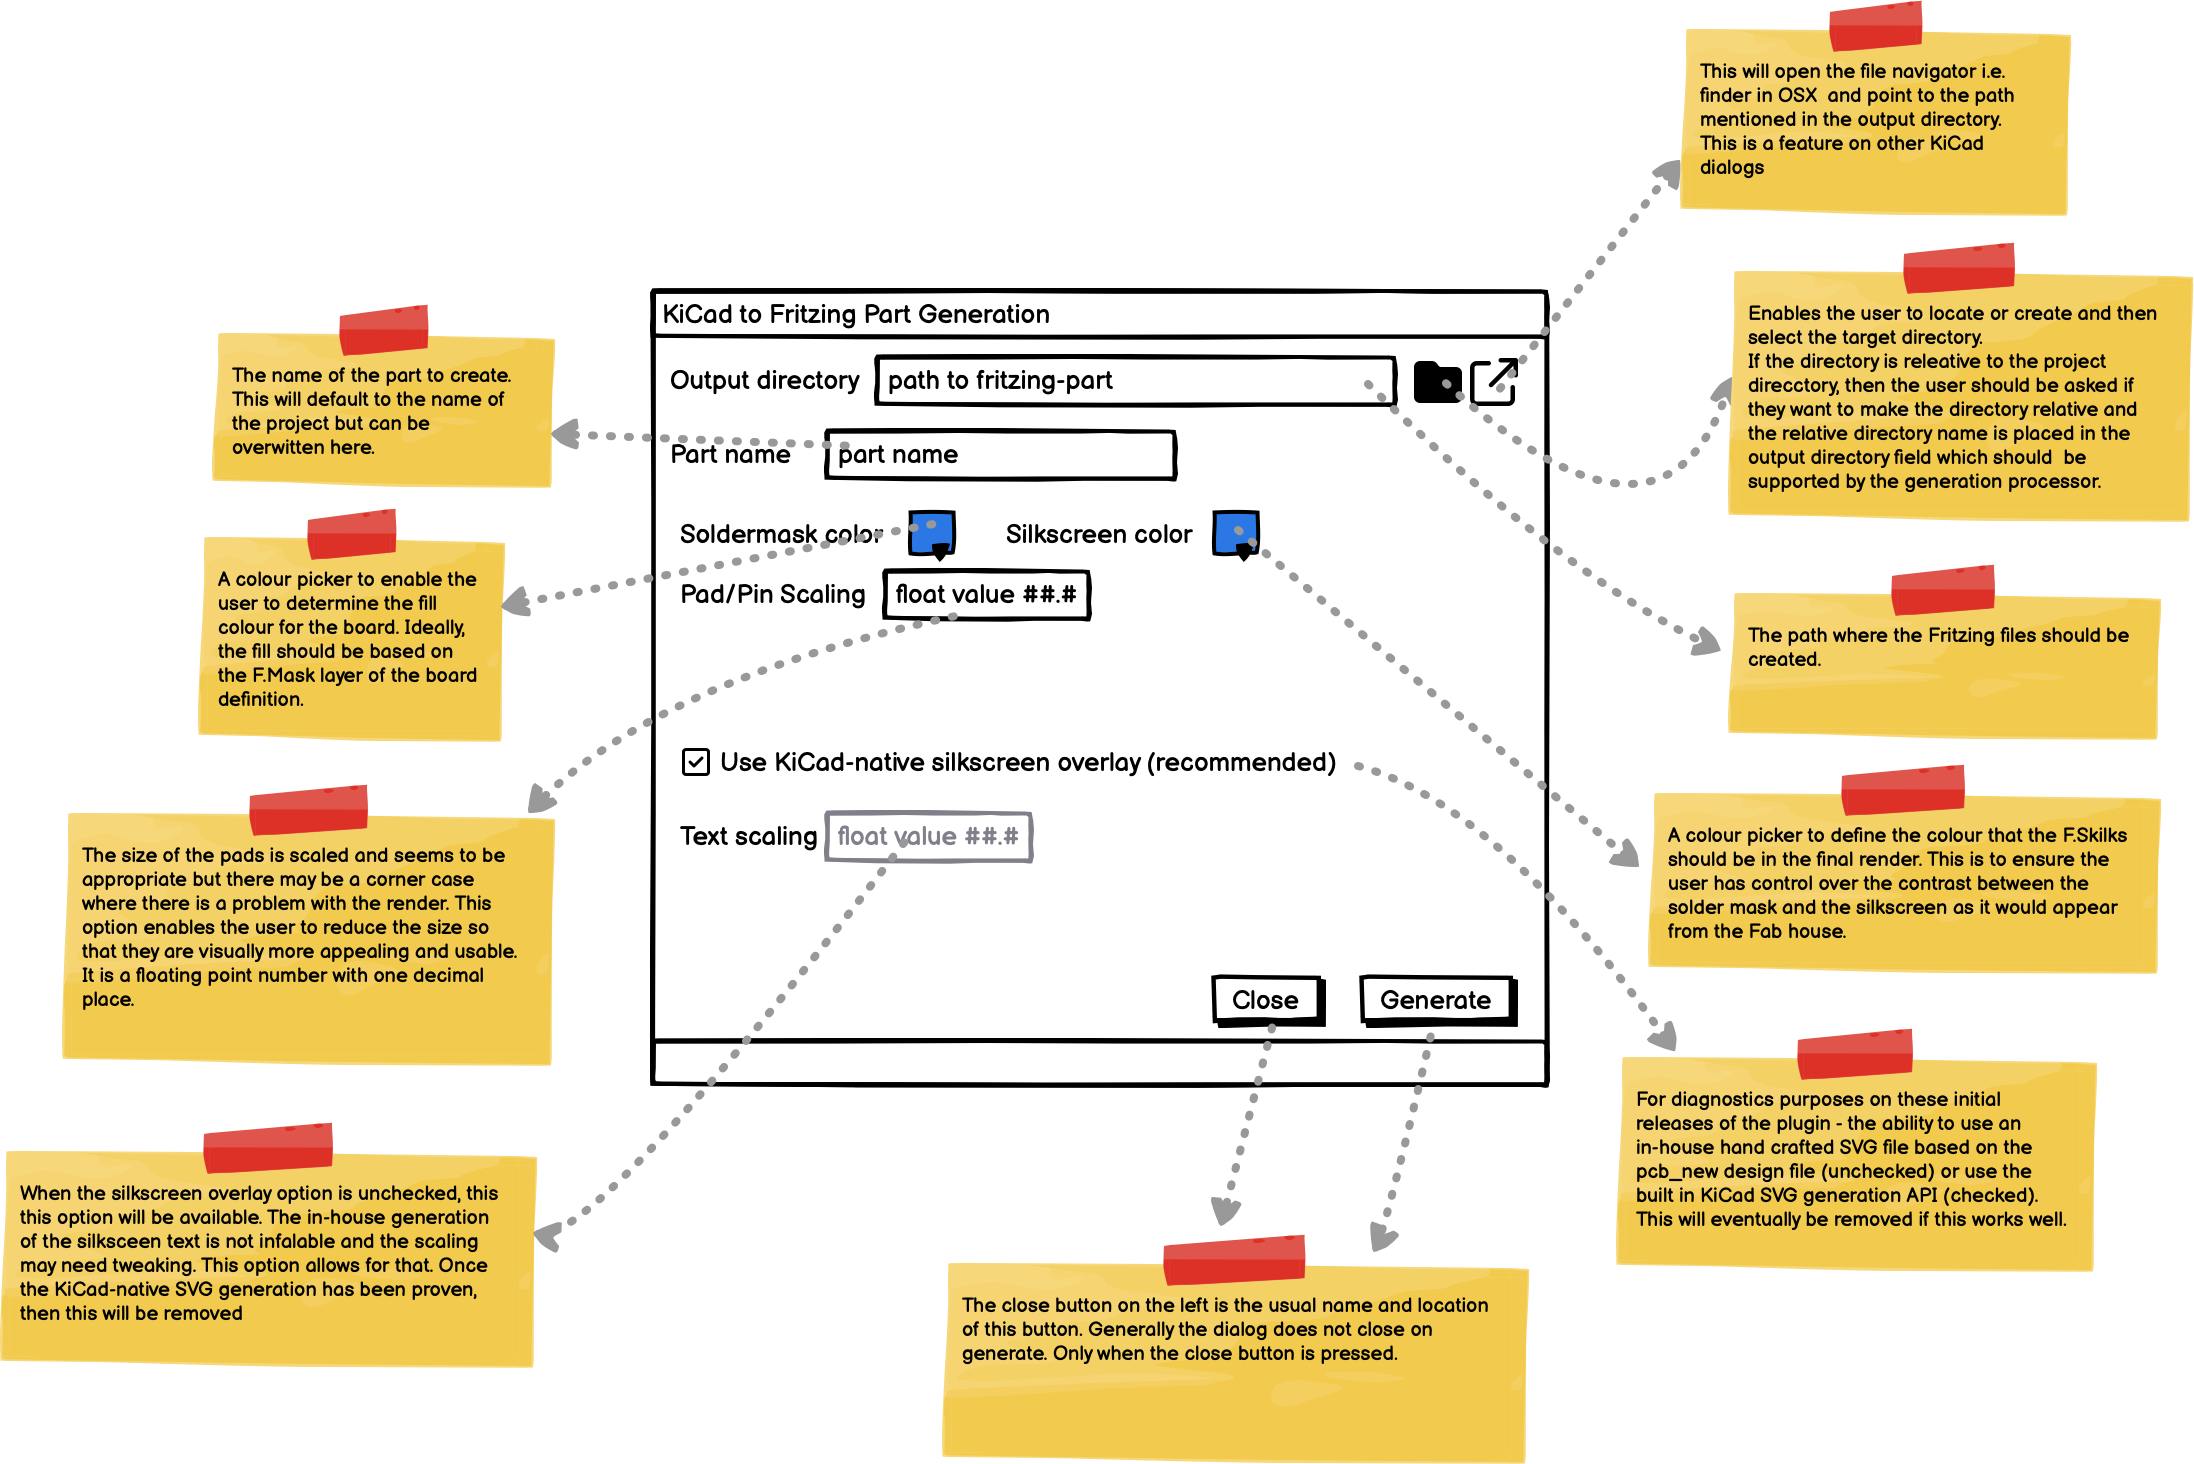
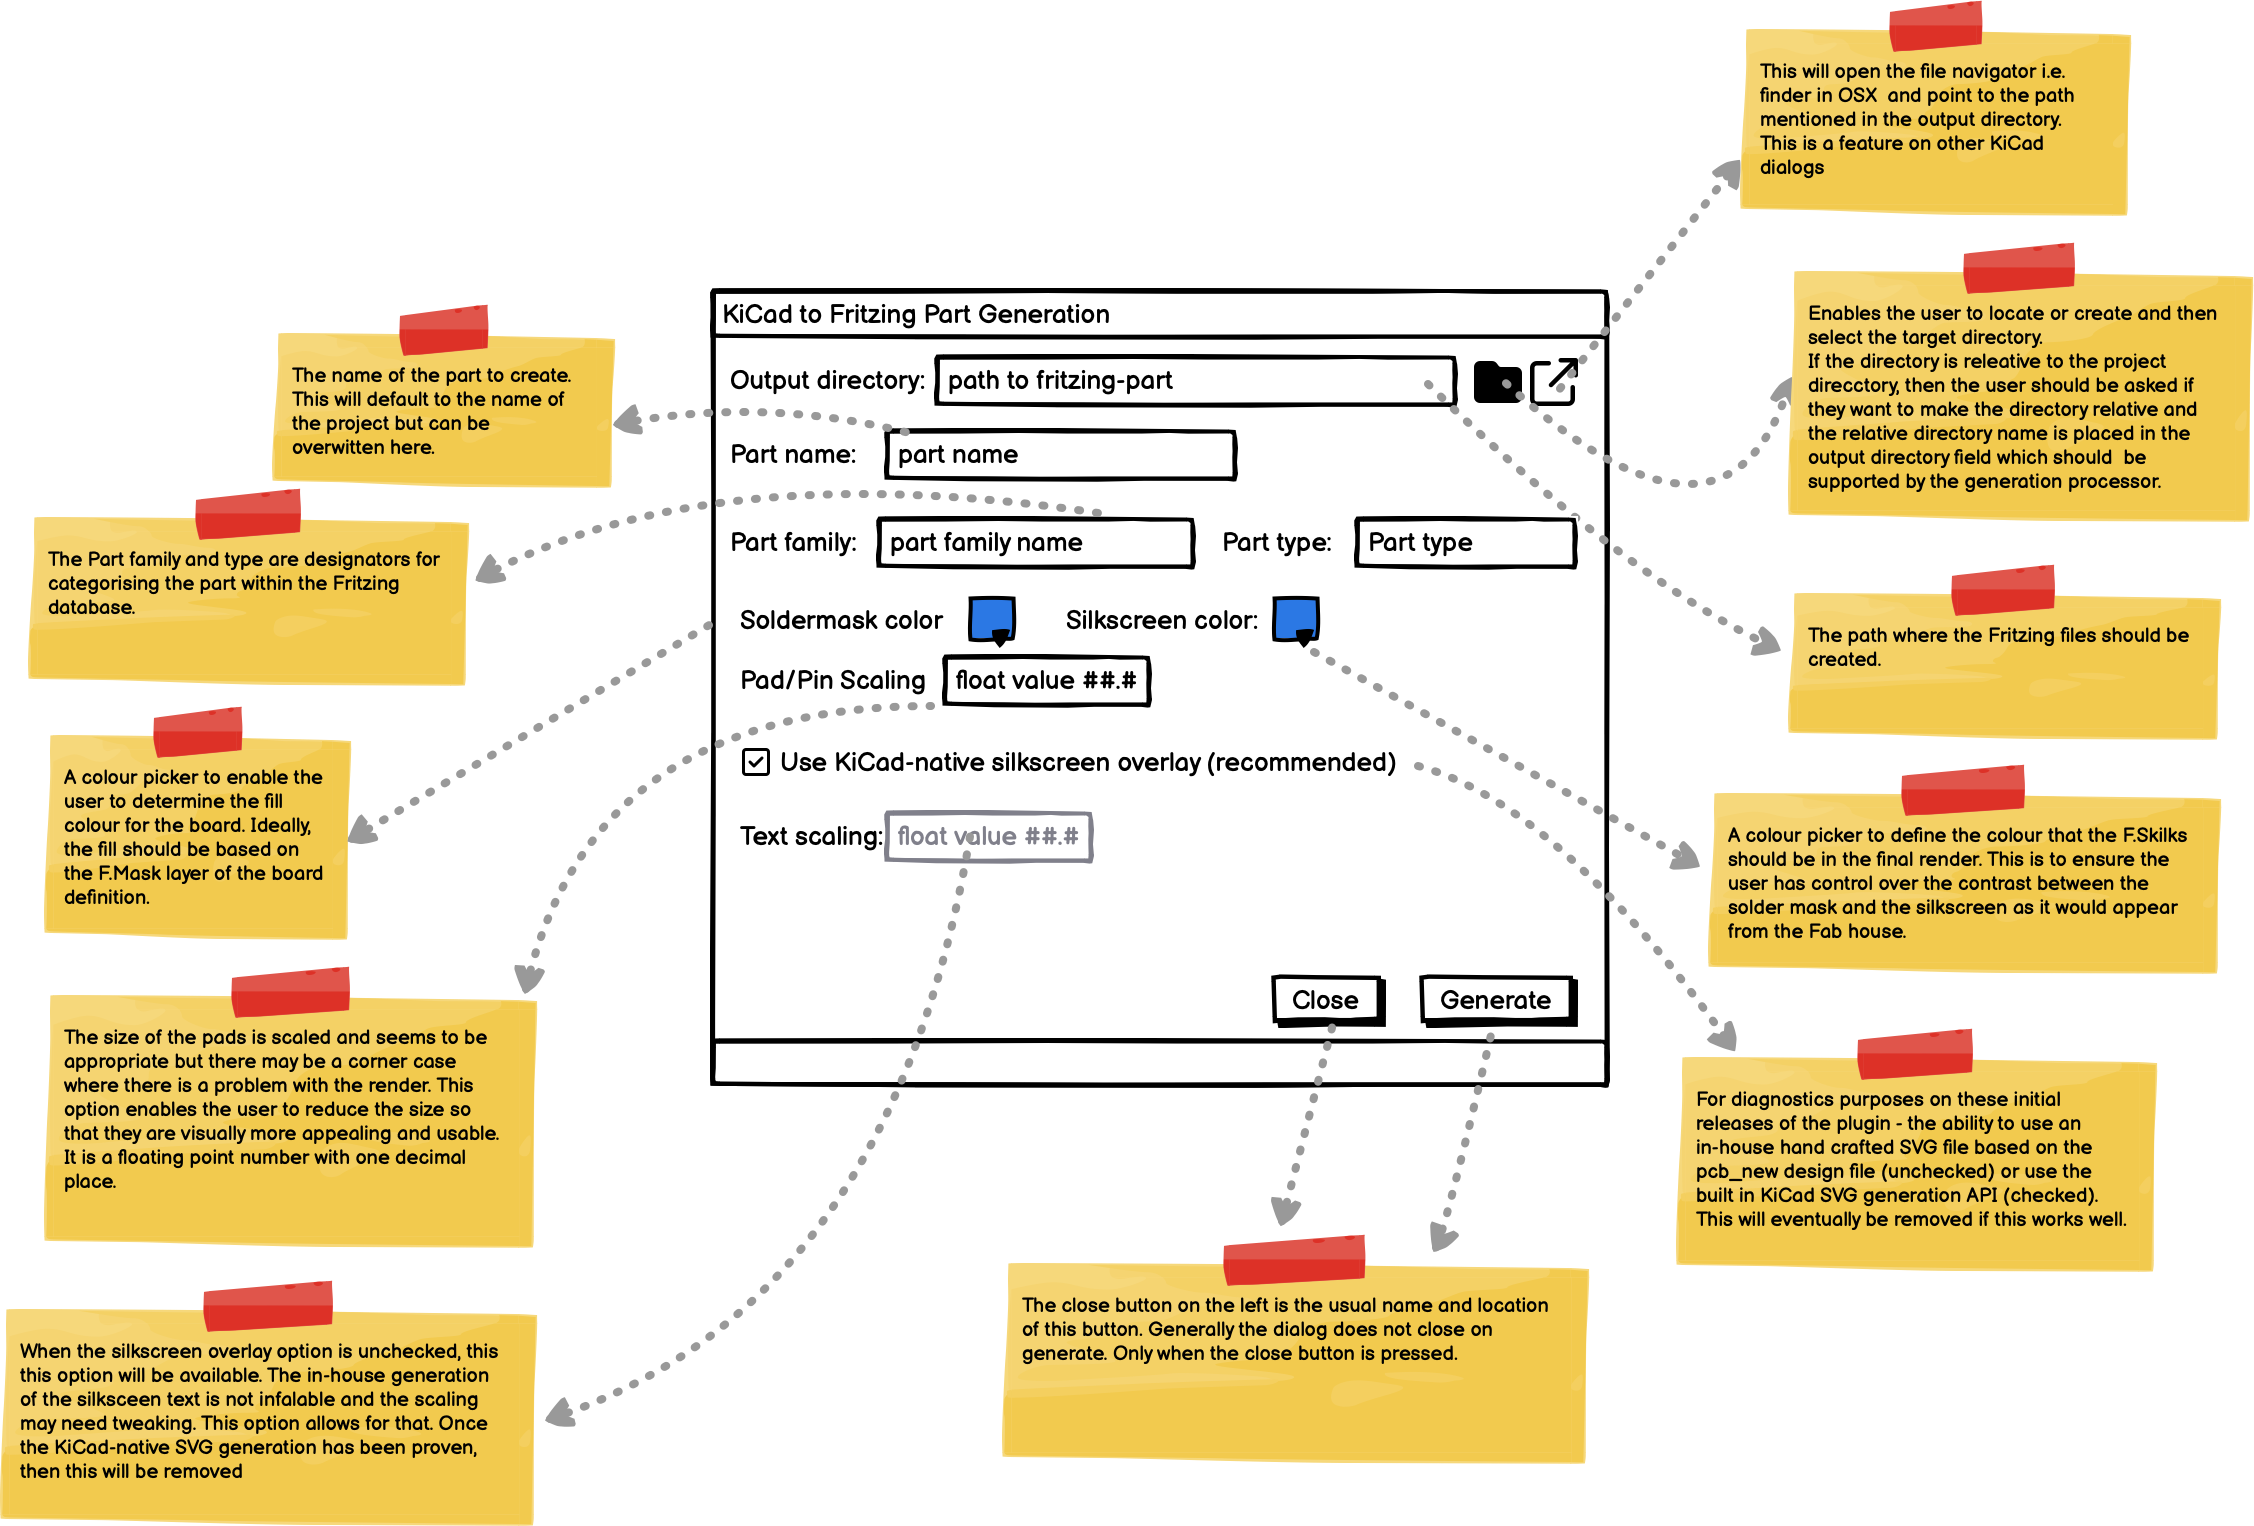
Docs: document Fritzing family/type metadata and cleanup guidance
- README: explain family/type defaults and plugin fields
- README: add local_parts cleanup note for stale pre-fix imports
- PROJECT_TRACKER: mark family/type and dialog metadata work complete
- PROJECT_TRACKER: add CLI parity follow-up for part metadata flags

diff --git a/README.md b/README.md
@@ -19,6 +19,8 @@ Current status:
 - Supported Edge.Cuts primitives now include `gr_rect`, `gr_line`, `gr_poly`, and `gr_arc`.
 - Artifact consistency validation checks connector IDs across generated files.
 - **Generated `.fzpz` packages** are ready for import directly into Fritzing.
+- Generated `.fzp` metadata now includes non-empty `family` and `type` properties (required by Fritzing local parts indexing).
+- KiCad plugin dialog exposes user-editable **Part Family** and **Part Type** fields with safe defaults.
 - Reference artifacts are organized under `references/`.
 
 ## Repository Layout
@@ -63,6 +65,12 @@ It also writes a starter Fritzing part file named after the board, e.g. `my-boar
 It also writes placeholder SVG view files: `icon.svg`, `breadboard.svg`, `schematic.svg`, `pcb.svg`.
 It writes a validation report: `artifact_validation.json`.
 It writes a shareable package named after the board, e.g. `my-board.fzpz`.
+
+Fritzing metadata fields can be customized from the KiCad plugin dialog:
+- `Part Family` (default: `KiCad2Fritzing Generated`)
+- `Part Type` (default: `Custom PCB`)
+
+These values are written into the generated `.fzp` under `<properties>` and influence how Fritzing categorizes and indexes the part.
 
 ## KiCad Extension Direction
 
@@ -145,3 +153,9 @@ Useful optional variables:
 Rendering tuning:
 - `K2F_SILK_TEXT_SCALE` adjusts silkscreen text size in generated SVGs (default `1.15`).
 	Example: `K2F_SILK_TEXT_SCALE=1.22` for slightly larger board labels.
+
+## Fritzing Import Notes
+
+- If you previously imported early generated parts and see startup warnings from Fritzing local parts scanning, remove stale `kicad2fritzing.*` entries from:
+  - `~/Library/Application Support/Fritzing/Fritzing/local_parts/user/`
+- Re-import a newly generated `.fzpz` from this version to refresh metadata with required `family/type` properties.

diff --git a/PROJECT_TRACKER.md b/PROJECT_TRACKER.md
@@ -28,13 +28,15 @@
 - Added regression tests for silkscreen parsing/rendering, coordinate projection, filtering, and SVG sizing.
 - Added `requirements.txt` dependency list.
 - Added opt-in external repository integration testing (clone at test time, parse/generate/validate, no project copy in this repo).
+- Added plugin output-directory UX improvements (create-directory browse, project-relative defaults, OS separator suffix behavior).
+- Added render-option controls for soldermask/silkscreen color and pad scaling in plugin dialog.
+- Added Fritzing metadata safeguards: generated `.fzp` now includes non-empty `family` and `type` properties.
+- Added plugin dialog controls for user-defined Part Family and Part Type with defaults.
+- Added regression tests for `.fzp` family/type defaults and override behavior.
 
 ## Current Focus
 
-- Return to the original conversion path with stable baseline behavior:
-	- keep current silkscreen support as-is (no vector path text conversion),
-	- investigate compatibility issues seen on another board,
-	- improve parser robustness without adding optional rendering complexity.
+- Keep stabilizing cross-tool compatibility (KiCad export -> Fritzing import) with guardrail tests and small iterative UX fixes.
 
 ## Next Steps
 
@@ -47,6 +49,7 @@
 	- assess whether this can replace manual text scaling and simplify silkscreen handling.
 - Validate connector IDs/names/mappings on at least two real board designs.
 - Validate generated `.fzp` schema assumptions against actual Fritzing import behavior.
+- Add optional CLI flags for `--part-family` and `--part-type` parity with plugin dialog metadata controls.
 - Add round-trip checks using Fritzing import/export where practical.
 - Add tests around plugin behavior and end-to-end integration flow.
 - Refine the KiCad plugin dialog UX after the updated Balsamiq draft is ready: